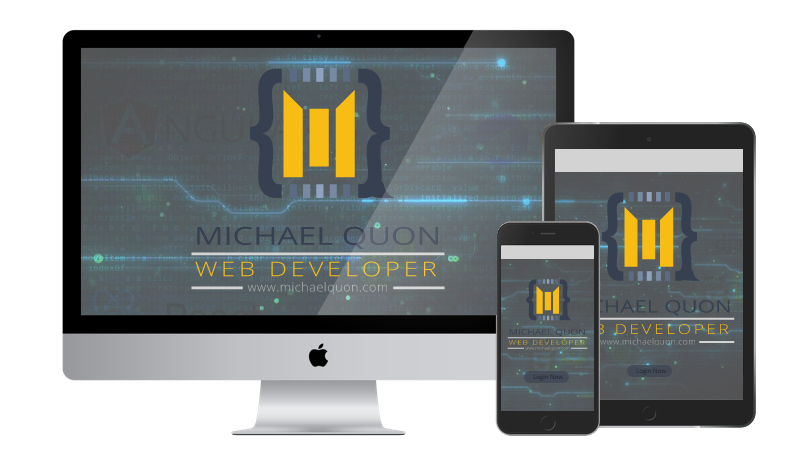
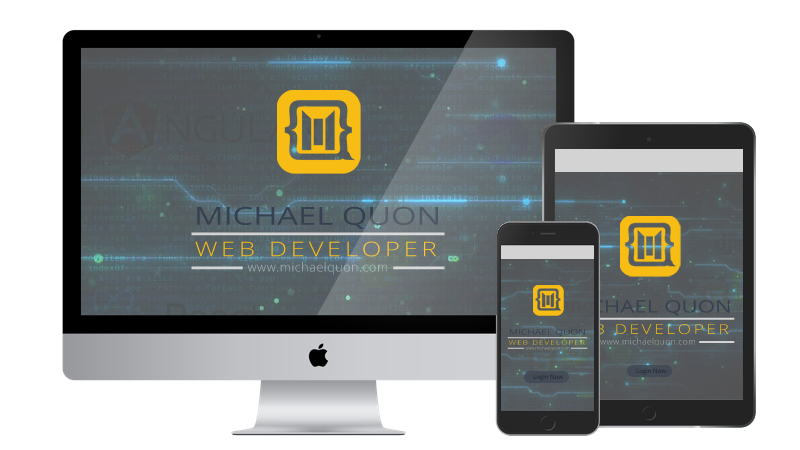
update front weboage

Changed region(s): [[0.2188, 0.1556, 0.5625, 0.6533], [0.75, 0.4044, 0.875, 0.6222], [0.6562, 0.6222, 0.7188, 0.7156]]

diff --git a/index.html b/index.html
@@ -50,18 +50,18 @@
 			<div class="text-center">
 
 				<img src="img/mqlogo11blue.png" width= 100 class="logoImg">
-				<h1 class="nameText">Michael Quon</h1>
+				<h1 class="nameText">Hi, I am Michael Quon</h1>
 			  <h3 class="titleText">Web Developer</h3>
-			  <h5>Fullstack/Mobile Developer</h5>
+			  <h5></h5>
 
-			  <div class="text-center" style="margin:20px">
+			  <div class="text-center" style="margin:10px">
 			  	<a href="http://michaelquon.com/" class="nameLink" target="_blank">
 			  		www.michaelquon.com
 			  	</a>
 			  </div>
 			 
 			</div>
-			<br /><br /><br /><br /><br /><br /><br /><br /><br /><br /><br />
+			<br /><br />
 			<br /><br /><br /><br /><br /><br /><br /><br /><br /><br /><br /><br />
 
 			<div class="row row-grey">
@@ -110,7 +110,7 @@
 
 			    	<div class="row work-item-row">
 			    		<div class="col-lg-8">
-			    			<img src="img/mqlogo4.png" width=300 class="img-responsive center-block">
+			    			<img src="img/3dlogo.png" width=500 class="img-responsive center-block">
 			    		</div>
 			    		<div class="col-lg-4">
 			    			<h2><a href="#" target="blank">Project</a></h2>
@@ -228,10 +228,10 @@
 
 			    	<h3>Tools I Use</h3>
 
-					<img src="img/tool-logos/git.png" class="techlogo" width="150">
-					<img src="img/tool-logos/vscode.png"class="techlogo" width="150">
-					<img src="img/tool-logos/ps.png" class="techlogo" width="150">
-					<img src="img/tool-logos/ai.png" class="techlogo" width="150">
+					<img src="img/tool-logos/git.png"alt="GitHub" class="techlogo" width="150">
+					<img src="img/tool-logos/vscode.png"alt="Visual Studio Code"class="techlogo" width="150">
+					<img src="img/tool-logos/ps.png"alt="Adobe Photoshop" class="techlogo" width="150">
+					<img src="img/tool-logos/ai.png"alt="Adobe Illustrator" class="techlogo" width="150">
     				
     				
 

diff --git a/css/style.css b/css/style.css
@@ -7,11 +7,10 @@ body {
 	/*background: linear-gradient(to left, #ef32d9, #89fffd);
 	 W3C, IE 10+/ Edge, Firefox 16+, Chrome 26+, Opera 12+, Safari 7+ */
 	height: 100%;
-	background-size:cover;
 	background-repeat: no-repeat;
 	background-attachment: fixed;
-	margin-top:50px;
-	background-image: url("../img/iammike.png"); 
+	margin-top:275px;
+	background-image: url("../img/iammike2.png"); 
 	background-position: center;
 	background-color: rgb(255, 255, 255);
 }
@@ -23,6 +22,7 @@ h1, h2, h3, h4, h5{
 }
 .nameText{
 	color: #ffffff !important;
+	font-size: 48px;
 	font-weight: 600;
 	font-family: 'Open Sans', sans-serif;
 }
